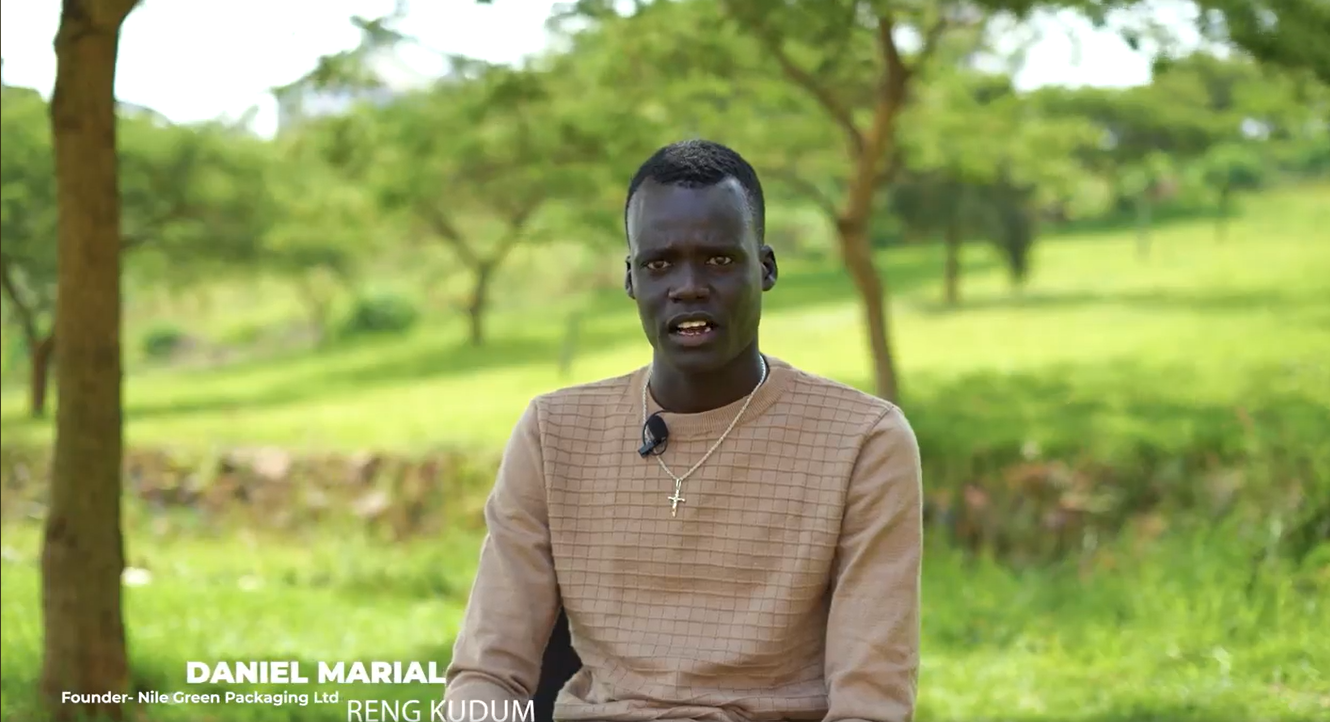
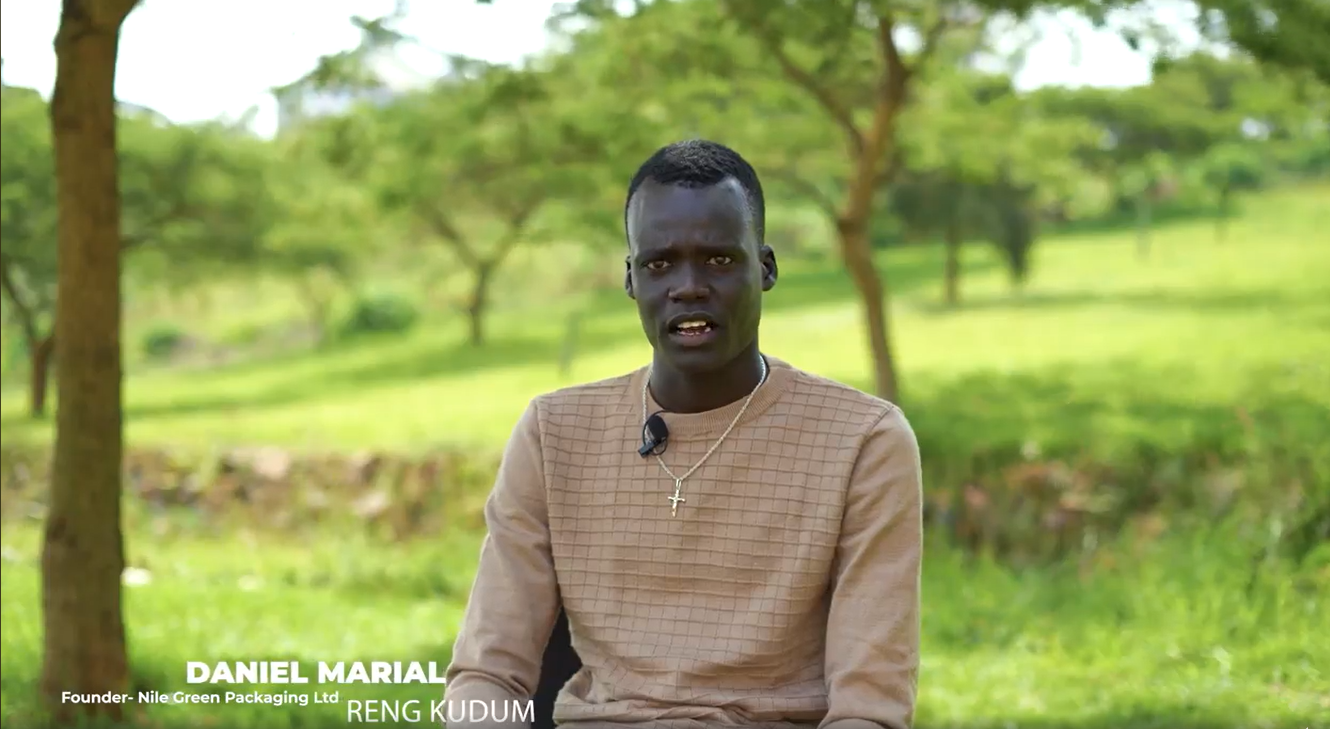
Tidy interview frame and entry links

diff --git a/src/app/(site)/media/page.tsx b/src/app/(site)/media/page.tsx
@@ -57,7 +57,7 @@ export default async function MediaPage() {
             <p className={s.status}>Interview, 2026</p>
           </div>
           <div>
-            <Image className={s.entryImage} src="/images/alu-interview.jpg" alt="Daniel being interviewed outdoors, captioned Daniel Marial Reng Kudum, Founder, Nile Green Packaging Ltd" width={1330} height={722} sizes="(max-width: 800px) 100vw, 45vw" />
+            <Image className={s.entryImage} src="/images/alu-interview.jpg" alt="Daniel being interviewed outdoors, captioned Daniel Marial Reng Kudum, Founder, Nile Green Packaging Ltd" width={1330} height={729} sizes="(max-width: 800px) 100vw, 45vw" />
             <p>
               After I completed the ALU Ventures Lab programme, African Leadership University interviewed me about Nile
               Green Packaging and its work against plastic pollution in South Sudan.

diff --git a/src/components/Inner.module.css b/src/components/Inner.module.css
@@ -50,6 +50,7 @@
 .figure figcaption { margin-top: 10px; color: var(--graphite); font-size: 1rem; }
 .portraitImage { max-width: 380px; }
 .placeholdersTwo { grid-template-columns: repeat(2, minmax(0, 1fr)); }
+.entry a { color: var(--black); text-underline-offset: 4px; text-decoration-thickness: 1px; }
 .heading { margin-bottom: 40px; }
 .logoGrid { display: grid; grid-template-columns: repeat(4, minmax(0, 1fr)); gap: 24px; margin-top: 40px; align-items: center; }
 .logoGrid img { width: 100%; max-height: 150px; object-fit: contain; mix-blend-mode: multiply; }
